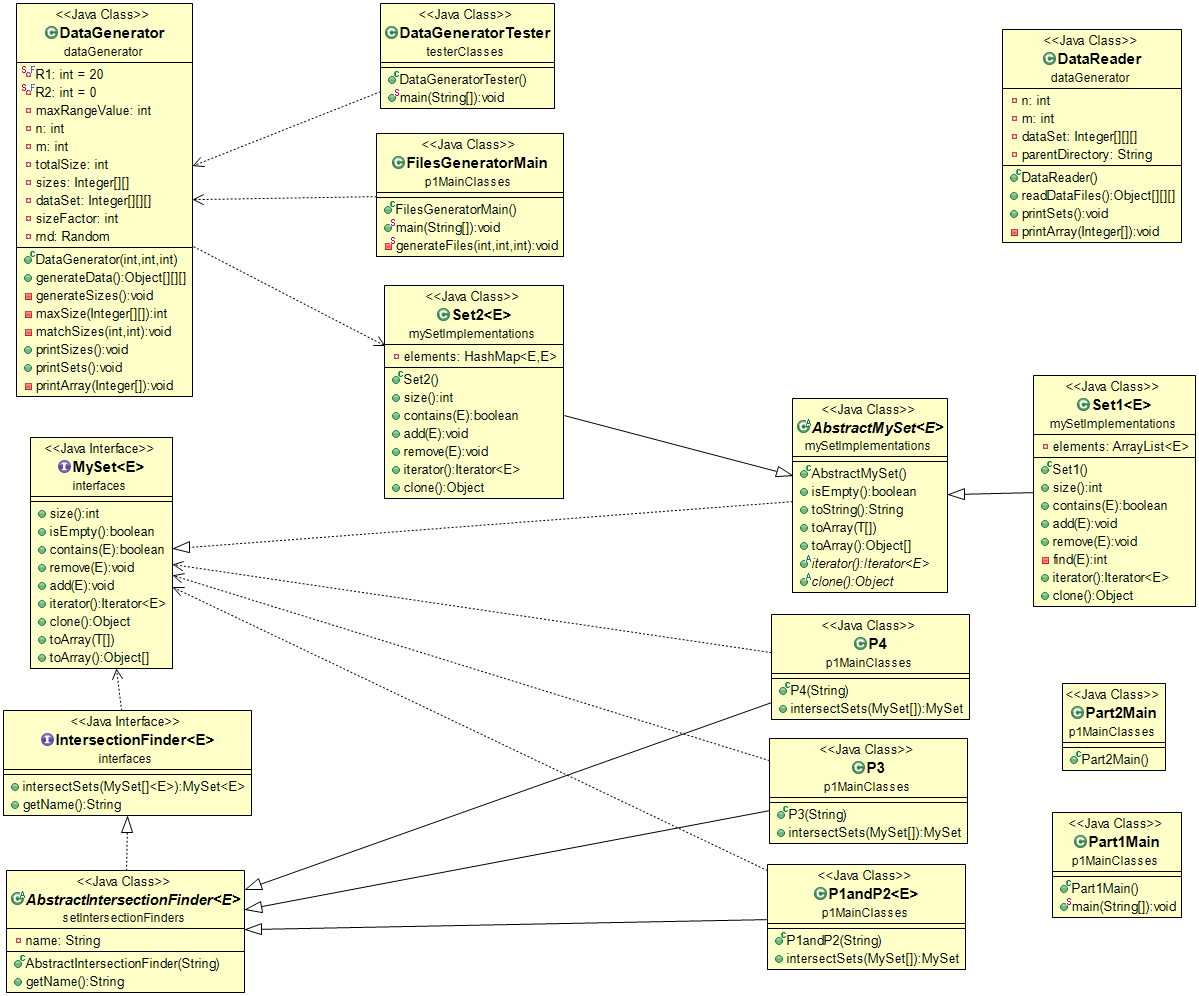
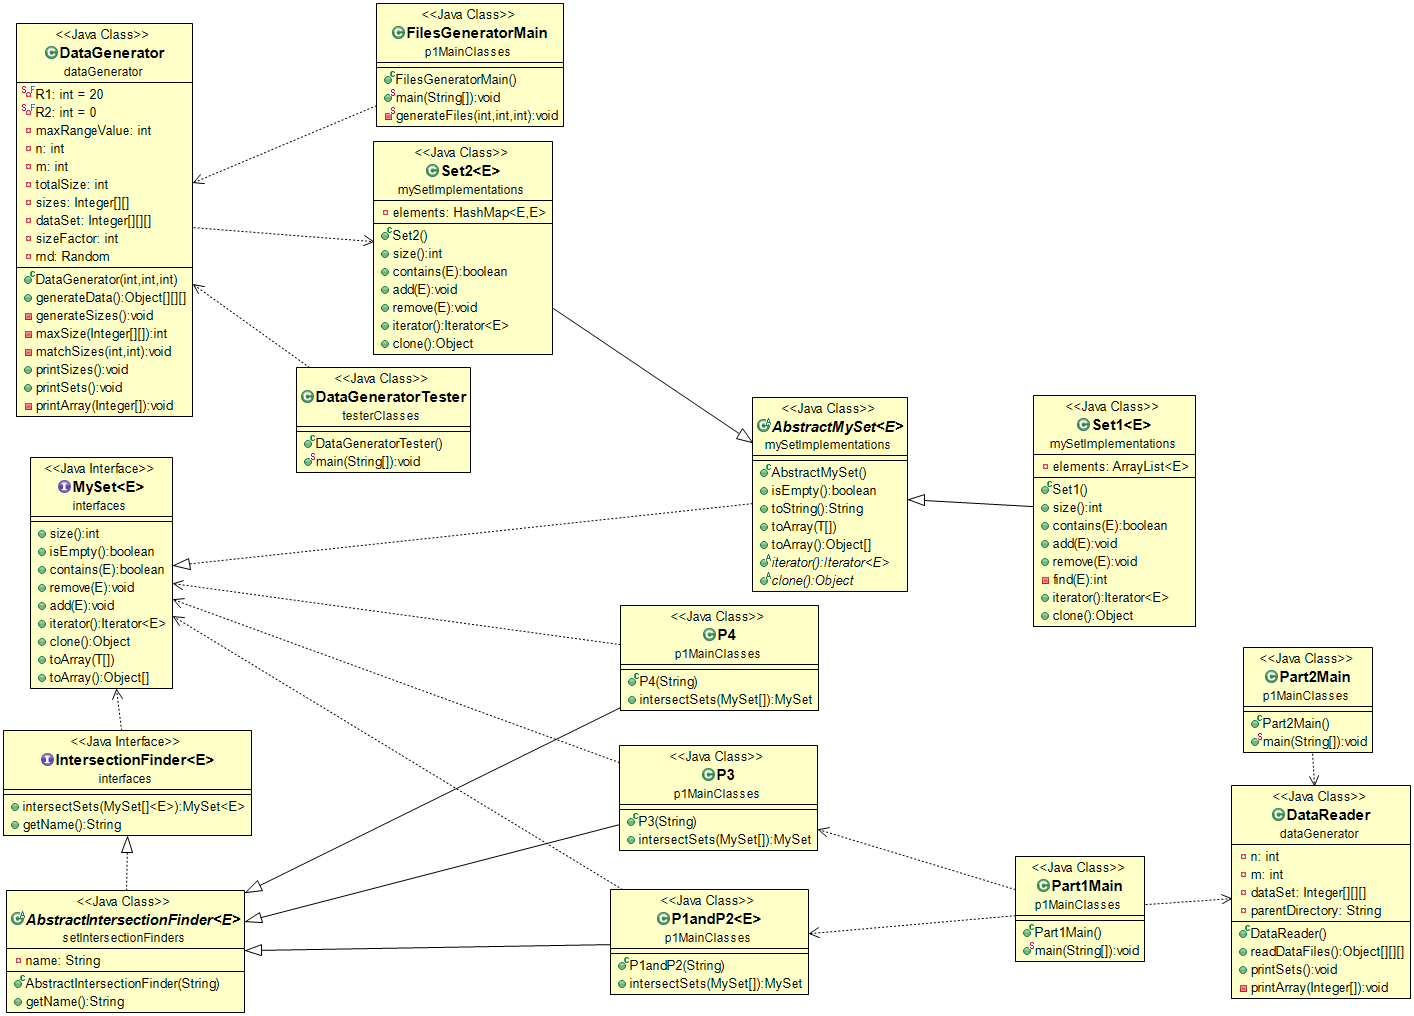
added parts to part1main

diff --git a/P1_802142976/src/p1MainClasses/Part1Main.java b/P1_802142976/src/p1MainClasses/Part1Main.java
@@ -1,5 +1,8 @@
 package p1MainClasses;
 
+import java.io.FileNotFoundException;
+
+import dataGenerator.DataReader;
 
 /**
  * 
@@ -13,10 +16,27 @@ package p1MainClasses;
 
 public class Part1Main {
 
-	  public static void main(String[] args) {
+	  public static void main(String[] args) throws FileNotFoundException {
 		  
+		DataReader dr = new DataReader();
 		
-		  
+		//Calling the FilesGeneratorMain to read the files
+		FilesGeneratorMain fgm = new FilesGeneratorMain();
+		
+		//tells the FilesGeneratorMain to read the arguments given by user 
+		//when calling part1main by cmd and giving the numbers
+		//FilesGeneratorMain has already a method to read the arguments or assign a default value.
+		fgm.main(args);
+		
+		dr.readDataFiles();
+		
+		dr.printSets();
+		
+		//remember to change the argument
+		P1andP2 p1p2result = new P1andP2(null);
+		P3 p3result = new P3(null);
+		P4 p4result = new P4(null);
+		
 		  
 	  }
 }

diff --git a/P1_802142976/src/p1MainClasses/Part2Main.java b/P1_802142976/src/p1MainClasses/Part2Main.java
@@ -1,10 +1,19 @@
 package p1MainClasses;
 
+import java.io.FileNotFoundException;
+
+import dataGenerator.DataReader;
+
 /**
  * 
  * @author Barbara P. Gonzalez 802-14-2976
  *
  */
 public class Part2Main {
+		  public static void main(String[] args) throws FileNotFoundException {
+			  
+			  DataReader dr = new DataReader();
+			  
+		  }
 
 }
